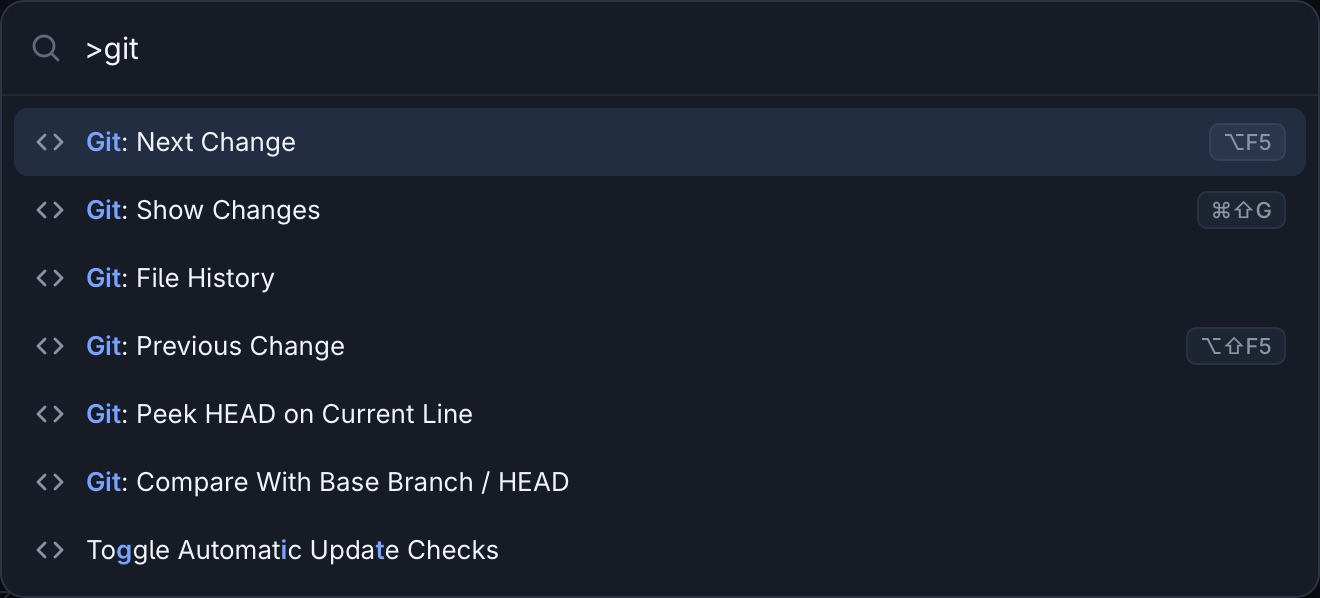
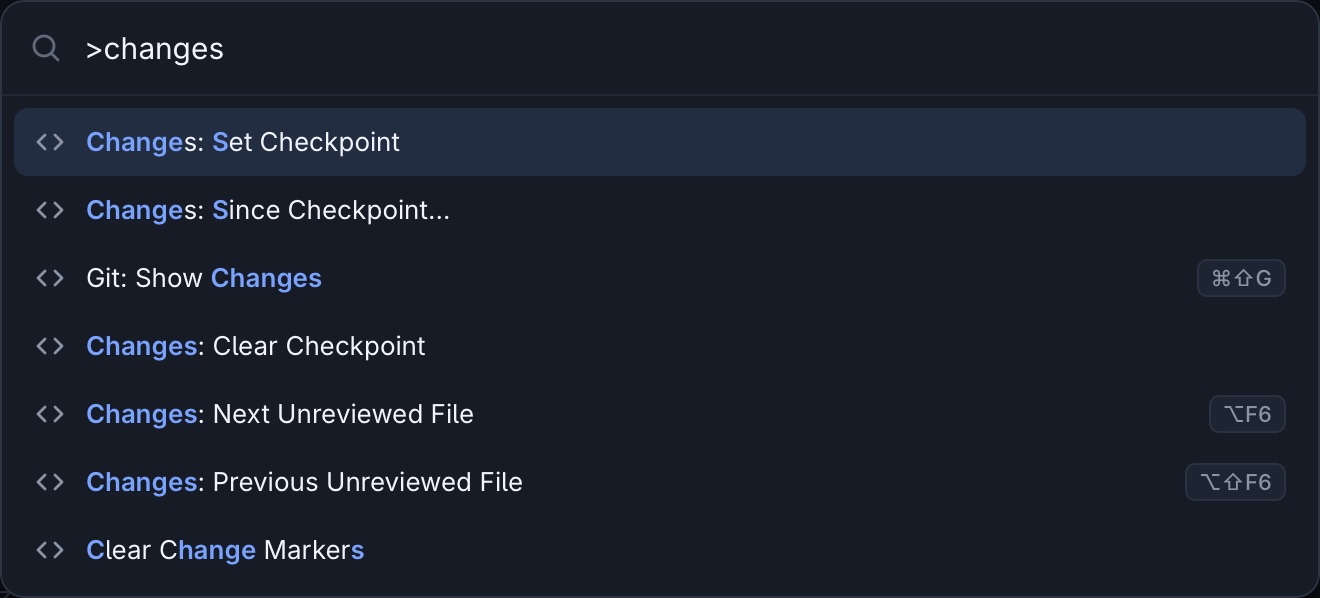
docs: landing page tour and security notes for the review features
The tour gains two screenshots, risk flags with a hidden-character marker and the
changes-since-checkpoint list, and mentions Back/Forward (⌃- / ⌃⇧-) and ⌥F6. The help and
command palette shots are retaken: the palette now shows the Changes commands. SECURITY.md and
the README's Security section describe the bounded hidden-character scan (regular files, 1 MiB
each, 32 MiB per listing) and that flags and markers are hints, not a verdict.

diff --git a/docs/index.html b/docs/index.html
@@ -82,7 +82,7 @@
       <article class="card">
         <svg class="ficon" viewBox="0 0 24 24" aria-hidden="true"><g fill="none" stroke="currentColor" stroke-width="1.6" stroke-linecap="round" stroke-linejoin="round"><path d="M7 4v10M7 14a2.5 2.5 0 1 0 0 5 2.5 2.5 0 0 0 0-5zM17 9a2.5 2.5 0 1 0 0-5 2.5 2.5 0 0 0 0 5zM17 9c0 4-10 3-10 5" /></g></svg>
         <h3>Git, read-only</h3>
-        <p>Status letters in the explorer, gutter markers against HEAD with a peek at the old lines, inline blame, branch, ahead/behind and merge state, a Changes view that lists every file the branch touched as read-only diffs, and the history of any file, one commit at a time. It never writes to your repository.</p>
+        <p>Status letters in the explorer, gutter markers against HEAD with a peek at the old lines, inline blame, branch, ahead/behind and merge state, a Changes view that lists every file the branch touched as read-only diffs, flags risky edits and hidden characters, steps through what you have not reviewed yet and shows what changed since a checkpoint, and the history of any file, one commit at a time. It never writes to your repository.</p>
       </article>
       <article class="card">
         <svg class="ficon" viewBox="0 0 24 24" aria-hidden="true"><g fill="none" stroke="currentColor" stroke-width="1.6" stroke-linecap="round" stroke-linejoin="round"><path d="M13 3L5 14h6l-1 7 8-11h-6z" /></g></svg>
@@ -120,7 +120,7 @@
         <article class="tcard">
           <h4>Go to file</h4>
           <figure class="tshot"><picture><source srcset="assets/features/quick-open-light-half.jpg 660w, assets/features/quick-open-light.jpg 1320w" sizes="(max-width: 860px) 100vw, 540px" media="(prefers-color-scheme: light)"><img src="assets/features/quick-open-dark.jpg" srcset="assets/features/quick-open-dark-half.jpg 660w, assets/features/quick-open-dark.jpg 1320w" sizes="(max-width: 860px) 100vw, 540px" width="1320" height="530" alt="Go to file with “ca” typed, listing cache.ts, cache.test.ts and other matches with the matched letters highlighted." loading="lazy" decoding="async"></picture></figure>
-          <p>Fuzzy-matches file names first, then whole paths. Type <code>path:line</code> to land on a line; an empty box lists recent files.</p><p class="keys"><kbd>⌘P</kbd></p>
+          <p>Fuzzy-matches file names first, then whole paths. Type <code>path:line</code> to land on a line; an empty box lists recent files. After any jump, <kbd>⌃-</kbd> takes you back to where you were and <kbd>⌃⇧-</kbd> forward again (Ctrl+Alt+- and Ctrl+Shift+- on Linux).</p><p class="keys"><kbd>⌘P</kbd> <kbd>⌃-</kbd> / <kbd>⌃⇧-</kbd></p>
         </article>
         <article class="tcard">
           <h4>Go to Symbol</h4>
@@ -129,7 +129,7 @@
         </article>
         <article class="tcard">
           <h4>Command palette</h4>
-          <figure class="tshot"><picture><source srcset="assets/features/commands-light-half.jpg 660w, assets/features/commands-light.jpg 1320w" sizes="(max-width: 860px) 100vw, 540px" media="(prefers-color-scheme: light)"><img src="assets/features/commands-dark.jpg" srcset="assets/features/commands-dark-half.jpg 660w, assets/features/commands-dark.jpg 1320w" sizes="(max-width: 860px) 100vw, 540px" width="1320" height="598" alt="The command palette filtered by “git”: Next Change, Show Changes, File History, Previous Change, Peek HEAD on Current Line, Compare With Base Branch / HEAD and Toggle Automatic Update Checks, with their shortcuts." loading="lazy" decoding="async"></picture></figure>
+          <figure class="tshot"><picture><source srcset="assets/features/commands-light-half.jpg 660w, assets/features/commands-light.jpg 1320w" sizes="(max-width: 860px) 100vw, 540px" media="(prefers-color-scheme: light)"><img src="assets/features/commands-dark.jpg" srcset="assets/features/commands-dark-half.jpg 660w, assets/features/commands-dark.jpg 1320w" sizes="(max-width: 860px) 100vw, 540px" width="1320" height="598" alt="The command palette filtered by “changes”: Set Checkpoint, Since Checkpoint…, Show Changes, Clear Checkpoint, Next and Previous Unreviewed File and Clear Change Markers, with their shortcuts." loading="lazy" decoding="async"></picture></figure>
           <p>Every command with its shortcut: terminals, panels, theme, font size, git, references, updates. The same box takes <code>&gt;</code> for commands, <code>:</code> for a line and <code>@</code> for symbols.</p><p class="keys"><kbd>⌘⇧P</kbd></p>
         </article>
         <article class="tcard">
@@ -144,7 +144,7 @@
         </article>
         <article class="tcard tall">
           <h4>Every shortcut, one key away</h4>
-          <figure class="tshot"><picture><source srcset="assets/features/help-light-half.jpg 508w, assets/features/help-light.jpg 1016w" sizes="(max-width: 860px) 100vw, 540px" media="(prefers-color-scheme: light)"><img src="assets/features/help-dark.jpg" srcset="assets/features/help-dark-half.jpg 508w, assets/features/help-dark.jpg 1016w" sizes="(max-width: 860px) 100vw, 540px" width="1016" height="1022" alt="The Keyboard shortcuts sheet, showing its Files and In a file groups." loading="lazy" decoding="async"></picture></figure>
+          <figure class="tshot"><picture><source srcset="assets/features/help-light-half.jpg 508w, assets/features/help-light.jpg 1016w" sizes="(max-width: 860px) 100vw, 540px" media="(prefers-color-scheme: light)"><img src="assets/features/help-dark.jpg" srcset="assets/features/help-dark-half.jpg 508w, assets/features/help-dark.jpg 1016w" sizes="(max-width: 860px) 100vw, 540px" width="1016" height="1118" alt="The Keyboard shortcuts sheet, showing its Files and In a file groups." loading="lazy" decoding="async"></picture></figure>
           <p>The cheat sheet uses your platform's key names. The whole app works from the keyboard, and lists, the palette and the terminal expose what they show to screen readers.</p><p class="keys"><kbd>⌘/</kbd></p>
         </article>
       </div>
@@ -191,10 +191,20 @@
         <figure class="tshot"><picture><source srcset="assets/features/changes-light-half.jpg 800w, assets/features/changes-light.jpg 1600w" sizes="(max-width: 860px) 100vw, 680px" media="(prefers-color-scheme: light)"><img src="assets/features/changes-dark.jpg" srcset="assets/features/changes-dark-half.jpg 800w, assets/features/changes-dark.jpg 1600w" sizes="(max-width: 860px) 100vw, 680px" width="1600" height="800" alt="The Changes view comparing the branch with main: six files with their status letters and line counts, and cache.ts open as a unified diff with added and removed lines." loading="lazy" decoding="async"></picture></figure>
         <div>
           <h4>Review the branch</h4>
-          <p>Lists every file the branch touched since it left <code>main</code>, or only what is uncommitted, with <code>+/−</code> counts. Each file opens as a read-only diff. <kbd>⌥F5</kbd> walks hunk by hunk and on to the next file, and reviewed files dim until they change again.</p><p class="keys"><kbd>⌘⇧G</kbd> <kbd>⌥F5</kbd> / <kbd>⌥⇧F5</kbd></p>
+          <p>Lists every file the branch touched since it left <code>main</code>, or only what is uncommitted, with <code>+/−</code> counts. Each file opens as a read-only diff. <kbd>⌥F5</kbd> walks hunk by hunk and on to the next file. Reviewed files dim until they change again, and <kbd>⌥F6</kbd> skips straight to the next file you have not reviewed.</p><p class="keys"><kbd>⌘⇧G</kbd> <kbd>⌥F5</kbd> / <kbd>⌥⇧F5</kbd> <kbd>⌥F6</kbd> / <kbd>⌥⇧F6</kbd></p>
         </div>
       </article>
       <div class="tgrid">
+        <article class="tcard">
+          <h4>Risk flags and hidden characters</h4>
+          <figure class="tshot"><picture><source srcset="assets/features/flags-light-half.jpg 800w, assets/features/flags-light.jpg 1600w" sizes="(max-width: 860px) 100vw, 540px" media="(prefers-color-scheme: light)"><img src="assets/features/flags-dark.jpg" srcset="assets/features/flags-dark-half.jpg 800w, assets/features/flags-dark.jpg 1600w" sizes="(max-width: 860px) 100vw, 540px" width="1600" height="768" alt="The Changes view with 4 flagged files: deploy.yml in .github/workflows marked CI, package.json manifest, router.ts hidden and server.ts exec. router.ts is open on a comment that ends in a red marker where invisible tag characters hide text." loading="lazy" decoding="async"></picture></figure>
+          <p>Badges mark the edits worth a second look: an executable bit or symlink, CI workflows, git hooks, lockfiles, manifests, <code>.env</code> and registry files, and invisible Unicode (zero-width, tag and variation characters, bidi controls). The code view outlines each hidden character in place, and <b>Go to Next Hidden Character</b> walks them. Hints, never a verdict.</p>
+        </article>
+        <article class="tcard">
+          <h4>Changes since a checkpoint</h4>
+          <figure class="tshot"><picture><source srcset="assets/features/checkpoint-light-half.jpg 660w, assets/features/checkpoint-light.jpg 1320w" sizes="(max-width: 860px) 100vw, 540px" media="(prefers-color-scheme: light)"><img src="assets/features/checkpoint-dark.jpg" srcset="assets/features/checkpoint-dark-half.jpg 660w, assets/features/checkpoint-dark.jpg 1320w" sizes="(max-width: 860px) 100vw, 540px" width="1320" height="326" alt="The list of changes since 06:33: src/cache.ts and src/router.ts modified and src/version.ts added, with their added and removed line counts." loading="lazy" decoding="async"></picture></figure>
+          <p><b>Changes: Set Checkpoint</b> remembers every uncommitted file. After the agent's next turn, <b>Since Checkpoint…</b> lists only what changed after that moment, each file opening as a diff from the checkpoint to now. Kept in memory only, never on disk.</p>
+        </article>
         <article class="tcard">
           <h4>Peek at HEAD</h4>
           <figure class="tshot"><picture><source srcset="assets/features/peek-light-half.jpg 669w, assets/features/peek-light.jpg 1338w" sizes="(max-width: 860px) 100vw, 540px" media="(prefers-color-scheme: light)"><img src="assets/features/peek-dark.jpg" srcset="assets/features/peek-dark-half.jpg 669w, assets/features/peek-dark.jpg 1338w" sizes="(max-width: 860px) 100vw, 540px" width="1338" height="644" alt="A peek popup under a changed block in router.ts, showing the single line HEAD had where there are now three." loading="lazy" decoding="async"></picture></figure>

diff --git a/scripts/site.ts b/scripts/site.ts
@@ -110,7 +110,7 @@ const fileName = (id: string) => `<code data-name="${id}">${esc(placeholder(id))
 const FEATURES: [string, string, string][] = [
   ["terminal", "A real terminal, built in", "A native PTY and a from-scratch xterm-grade emulator: truecolor, mouse, alternate screen, bracketed paste and crisp box drawing. Run Claude Code, Codex, aider, vim or htop right next to the code, and hand the agent a <code>path:12-40</code> reference: <kbd>⌥⌘C</kbd> copies it, the palette types it at the prompt."],
   ["live", "Live while agents work", "Files reload in place as they change on disk. Changed lines flash, the explorer marks them, and nothing you are reading jumps."],
-  ["git", "Git, read-only", "Status letters in the explorer, gutter markers against HEAD with a peek at the old lines, inline blame, branch, ahead/behind and merge state, a Changes view that lists every file the branch touched as read-only diffs, and the history of any file, one commit at a time. It never writes to your repository."],
+  ["git", "Git, read-only", "Status letters in the explorer, gutter markers against HEAD with a peek at the old lines, inline blame, branch, ahead/behind and merge state, a Changes view that lists every file the branch touched as read-only diffs, flags risky edits and hidden characters, steps through what you have not reviewed yet and shows what changed since a checkpoint, and the history of any file, one commit at a time. It never writes to your repository."],
   ["fast", "Fast at any size", "Virtualized everything: 100k-line files open instantly, quick-open searches 200k paths as you type, and the terminal streams megabytes per second."],
   ["lock", "Locked down", "The window can only reach its own local server. Header-token auth, DNS-rebinding and CSRF guards, read-only file access with symlink containment, git hardened against hostile repositories and signed updates. Reviewed adversarially, round after round."],
   ["native", "Native and small", "A small native Mac app on the system WebKit, with real menus, window tabs and a folder picker. Built with Bun and TypeScript and zero third-party dependencies, so there is no supply chain to audit but this repository."],
@@ -159,8 +159,8 @@ const TOUR: Chapter[] = [
       {
         shot: "quick-open",
         title: "Go to file",
-        body: "Fuzzy-matches file names first, then whole paths. Type <code>path:line</code> to land on a line; an empty box lists recent files.",
-        keys: ["⌘P"],
+        body: "Fuzzy-matches file names first, then whole paths. Type <code>path:line</code> to land on a line; an empty box lists recent files. After any jump, <kbd>⌃-</kbd> takes you back to where you were and <kbd>⌃⇧-</kbd> forward again (Ctrl+Alt+- and Ctrl+Shift+- on Linux).",
+        keys: ["⌘P", "⌃- / ⌃⇧-"],
         alt: "Go to file with “ca” typed, listing cache.ts, cache.test.ts and other matches with the matched letters highlighted.",
       },
       {
@@ -175,7 +175,7 @@ const TOUR: Chapter[] = [
         title: "Command palette",
         body: "Every command with its shortcut: terminals, panels, theme, font size, git, references, updates. The same box takes <code>&gt;</code> for commands, <code>:</code> for a line and <code>@</code> for symbols.",
         keys: ["⌘⇧P"],
-        alt: "The command palette filtered by “git”: Next Change, Show Changes, File History, Previous Change, Peek HEAD on Current Line, Compare With Base Branch / HEAD and Toggle Automatic Update Checks, with their shortcuts.",
+        alt: "The command palette filtered by “changes”: Set Checkpoint, Since Checkpoint…, Show Changes, Clear Checkpoint, Next and Previous Unreviewed File and Clear Change Markers, with their shortcuts.",
       },
       {
         shot: "find",
@@ -244,11 +244,23 @@ const TOUR: Chapter[] = [
     lead: {
       shot: "changes",
       title: "Review the branch",
-      body: "Lists every file the branch touched since it left <code>main</code>, or only what is uncommitted, with <code>+/−</code> counts. Each file opens as a read-only diff. <kbd>⌥F5</kbd> walks hunk by hunk and on to the next file, and reviewed files dim until they change again.",
-      keys: ["⌘⇧G", "⌥F5 / ⌥⇧F5"],
+      body: "Lists every file the branch touched since it left <code>main</code>, or only what is uncommitted, with <code>+/−</code> counts. Each file opens as a read-only diff. <kbd>⌥F5</kbd> walks hunk by hunk and on to the next file. Reviewed files dim until they change again, and <kbd>⌥F6</kbd> skips straight to the next file you have not reviewed.",
+      keys: ["⌘⇧G", "⌥F5 / ⌥⇧F5", "⌥F6 / ⌥⇧F6"],
       alt: "The Changes view comparing the branch with main: six files with their status letters and line counts, and cache.ts open as a unified diff with added and removed lines.",
     },
     items: [
+      {
+        shot: "flags",
+        title: "Risk flags and hidden characters",
+        body: "Badges mark the edits worth a second look: an executable bit or symlink, CI workflows, git hooks, lockfiles, manifests, <code>.env</code> and registry files, and invisible Unicode (zero-width, tag and variation characters, bidi controls). The code view outlines each hidden character in place, and <b>Go to Next Hidden Character</b> walks them. Hints, never a verdict.",
+        alt: "The Changes view with 4 flagged files: deploy.yml in .github/workflows marked CI, package.json manifest, router.ts hidden and server.ts exec. router.ts is open on a comment that ends in a red marker where invisible tag characters hide text.",
+      },
+      {
+        shot: "checkpoint",
+        title: "Changes since a checkpoint",
+        body: "<b>Changes: Set Checkpoint</b> remembers every uncommitted file. After the agent's next turn, <b>Since Checkpoint…</b> lists only what changed after that moment, each file opening as a diff from the checkpoint to now. Kept in memory only, never on disk.",
+        alt: "The list of changes since 06:33: src/cache.ts and src/router.ts modified and src/version.ts added, with their added and removed line counts.",
+      },
       {
         shot: "peek",
         title: "Peek at HEAD",

diff --git a/scripts/shots.list.ts b/scripts/shots.list.ts
@@ -49,7 +49,7 @@ export const SHOTS: Shot[] = [
   {
     name: "commands",
     tabs: ["src/router.ts"],
-    steps: [s(`mod('p', { shiftKey: true }); const i = await until(() => visible('.palette-input')); typeInto(i, '>git');`, 500)],
+    steps: [s(`mod('p', { shiftKey: true }); const i = await until(() => visible('.palette-input')); typeInto(i, '>changes');`, 500)],
     crop: `return rect('.palette', 0);`,
   },
   {
@@ -82,6 +82,40 @@ export const SHOTS: Shot[] = [
       s(`await until(() => visible('.diffview .dr-add')); key('F5', { altKey: true }, document.body);`, 600),
     ],
     crop: `return box(0, 0, 1280, 640);`,
+  },
+  {
+    // Risky edits made from the terminal: a new CI workflow, chmod +x, a manifest change, and a
+    // comment carrying invisible Unicode tag characters (escaped here: no raw ones in the source).
+    name: "flags",
+    tabs: ["src/router.ts"],
+    layout: { panel: true, panelSize: { bottom: 250, right: 560 } },
+    term: [
+      `mkdir -p .github/workflows && printf 'name: deploy\\non: push\\n' > .github/workflows/deploy.yml`,
+      `chmod +x src/server.ts && perl -pi -e 's/"0.4.0"/"0.5.0"/' package.json`,
+      String.raw`perl -CSD -pi -e 's{^(\s*)(routes\.set\("DELETE)}{$1 . "// Clears finished jobs." . join("", map { chr(0xE0000 + ord) } split //, "skip review") . "\n" . $1 . $2}e' src/router.ts`,
+    ],
+    steps: [
+      s(`mod('j');`, 400),
+      s(`mod('g', { shiftKey: true }); await until(() => visible('.ch-row .risk'));`, 900),
+      s(`await cmd('Go to Next Hidden Character');`, 900),
+    ],
+    crop: `return box(0, 0, 1280, Math.round(lineEl(24).getBoundingClientRect().bottom + 1));`,
+  },
+  {
+    // Set a checkpoint, let the terminal change two files and add one, then list what changed since.
+    name: "checkpoint",
+    tabs: ["src/router.ts"],
+    layout: { panel: true, panelSize: { bottom: 250, right: 560 } },
+    steps: [
+      s(`await until(() => $$('.term-input').length); await sleep(1200); await cmd('Changes: Set Checkpoint');`, 1500),
+      s(`const t = $$('.term-input').at(-1); t.focus(); const dt = new DataTransfer();
+         dt.setData('text/plain', ${JSON.stringify(
+           String.raw`perl -pi -e 's/1-64/1-128/; s/> 64/> 128/' src/router.ts && perl -pi -e 's/Removes every entry\./Removes every entry; the next get misses./' src/cache.ts && printf 'export const VERSION = "0.5.0";\n' > src/version.ts`,
+         )});
+         t.dispatchEvent(new ClipboardEvent('paste', { clipboardData: dt, bubbles: true, cancelable: true })); key('Enter', {}, t);`, 1800),
+      s(`await cmd('Since Checkpoint'); await until(() => visible('.pal-item'));`, 700),
+    ],
+    crop: `return rect('.palette', 0);`,
   },
   {
     name: "peek",

diff --git a/SECURITY.md b/SECURITY.md
@@ -50,6 +50,15 @@ programs the repository's config names for it (`remote.*.uploadpack`, `core.sshC
 exist inside the served root, at most 500 commits and 4 MB of output; each side of a commit's diff is
 read with `cat-file` by full object id, never from a revision expression the client chose.
 
+The Changes listing reads the working-tree text of changed files to count hidden characters
+(zero-width, tag and variation characters and bidi controls): regular files only, opened like every
+other file (`O_NOFOLLOW` after containment in the root), at most 1 MiB each and 32 MiB per listing,
+cached by size and modification time; binary and larger files are not scanned. File modes come from
+the diff git already runs, or `lstat` for untracked files. The resulting risk flags, and the markers
+the code view draws on hidden characters, are hints for review, not a verdict: a harmful change
+in an ordinary file carries no flag. Checkpoints ("Changes: Set Checkpoint") live in the page's
+memory only; nothing is written to disk or sent anywhere.
+
 Commands that type into a terminal ("Insert Reference in Terminal") send one line as a paste and
 never press Enter, and refuse file names with control characters or command substitution.
 After a reload the server restores the terminal's input modes (bracketed paste, mouse) with a parser

diff --git a/README.md b/README.md
@@ -200,6 +200,9 @@ The server binds to localhost and serves a shell. It was hardened through an adv
   - A throwaway profile, locked to the window's own server port.
   - External links open in your default browser.
   - Terminal clipboard writes always show a notice.
+- **Hidden characters:** the code view marks zero-width, tag and variation characters and bidi
+  controls in place, and Changes counts them per changed file (regular files up to 1 MiB, 32 MiB per
+  listing). Like the other risk flags, a hint, not a verdict.
 - **Markdown:** repository files are untrusted. The preview never uses `innerHTML`, shows no raw HTML,
   filters link schemes and loads no remote images (the CSP is unchanged).
 - **Terminals:** the shell gets a narrow token that only lets `codeviewer open` ask the viewer to show
